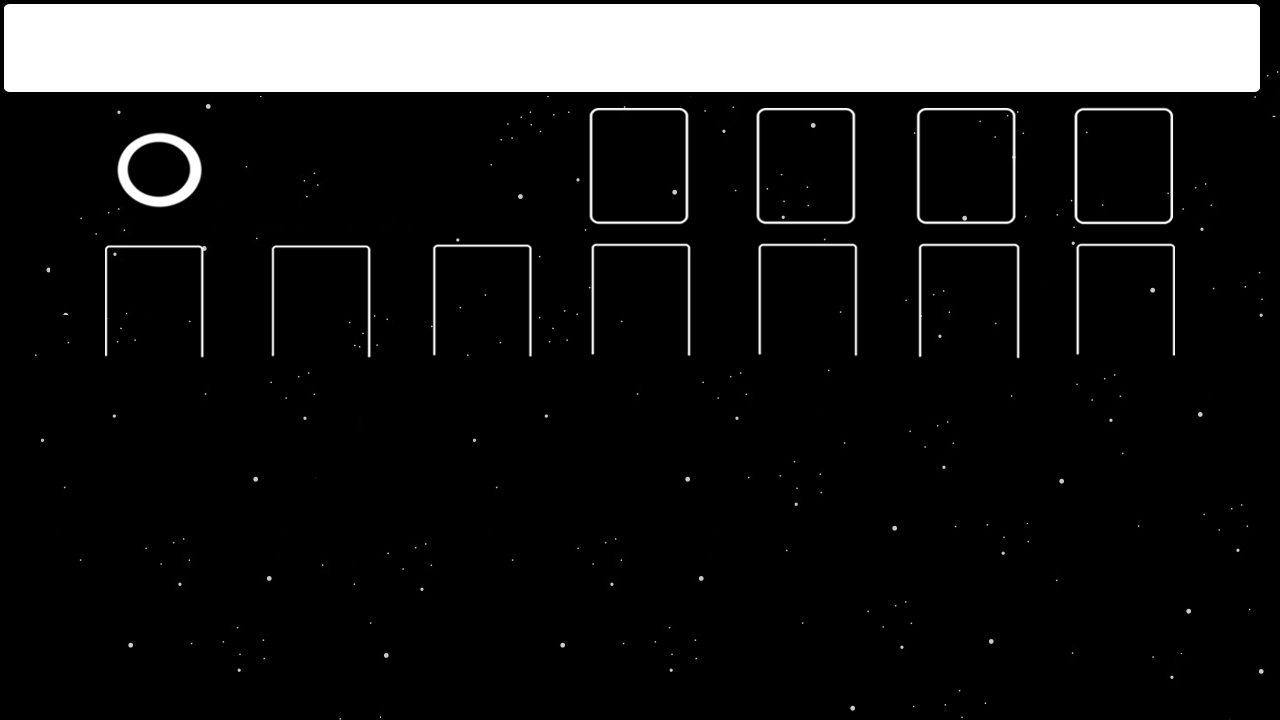
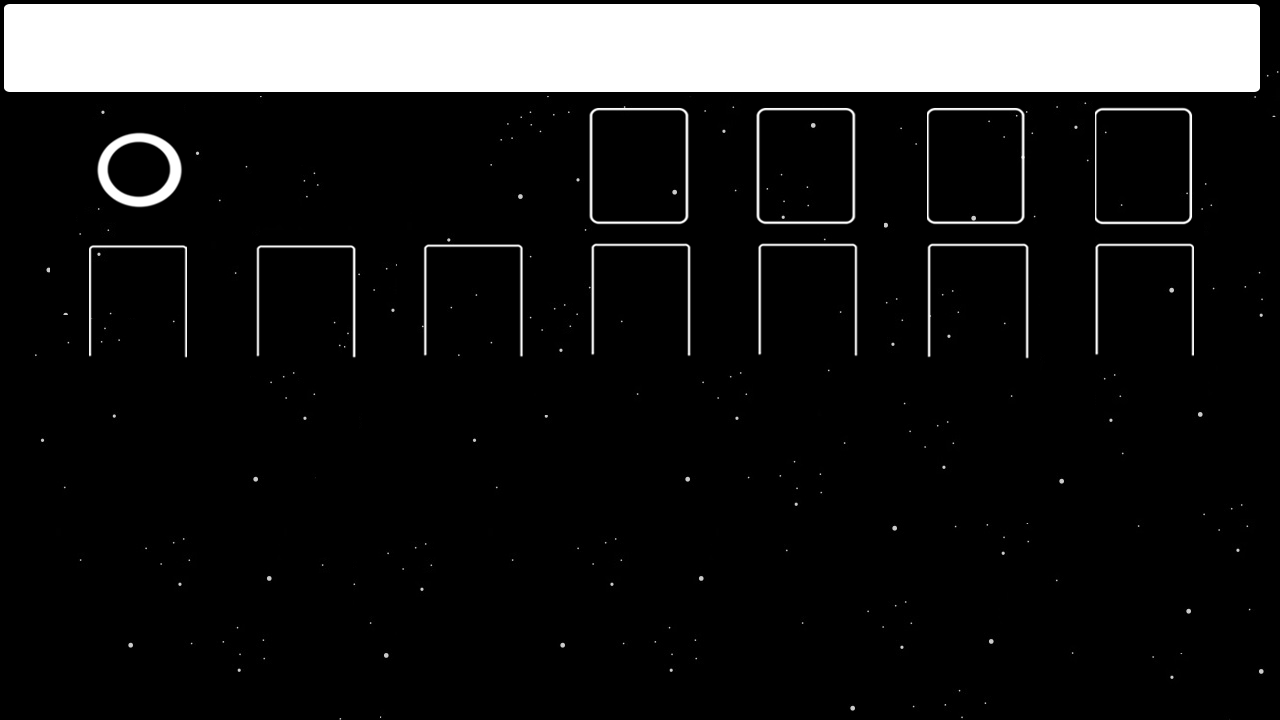
Creacion botones escalera, modificacion tablero

diff --git a/src/main/java/Perseverance/Tablero.java b/src/main/java/Perseverance/Tablero.java
@@ -22,7 +22,7 @@ public class Tablero extends JFrame implements Observer{
     private ArrayList<JButton> pilaDeJuego5;
     private ArrayList<JButton> pilaDeJuego6;
     private ArrayList<JButton> pilaDeJuego7;
-    private ArrayList<JButton> cartasDeEscalera;
+    private ArrayList<JButton> escaleras;
     private JButton mazo;
     private JButton cartaUbicar;
     private Font fuente;
@@ -52,7 +52,7 @@ public class Tablero extends JFrame implements Observer{
         this.juego=juego;
         registrarFuente();
         update();
-
+        escaleras = new ArrayList<>();
         setLayout(null);
         setTitle("Solitario Apolo");
         ImageIcon icono = new ImageIcon("images/icono.png");
@@ -164,6 +164,17 @@ public class Tablero extends JFrame implements Observer{
         mazo.setName("mazoTablero");
         mazo.addActionListener(controlador);
         add(mazo);
+
+        for (int i = 0; i < 4; i++) {
+            JButton boton = new JButton();
+            boton.setBounds(590+(168*i),108,98,117);
+            boton.setIcon(new ImageIcon("images/reversocarta.png"));
+            boton.setFocusPainted(false);
+            boton.setName("escalera" + i);
+            boton.addActionListener(controlador);
+            add(boton);
+            escaleras.add(boton);
+        }
 
 
         add(tablero);
